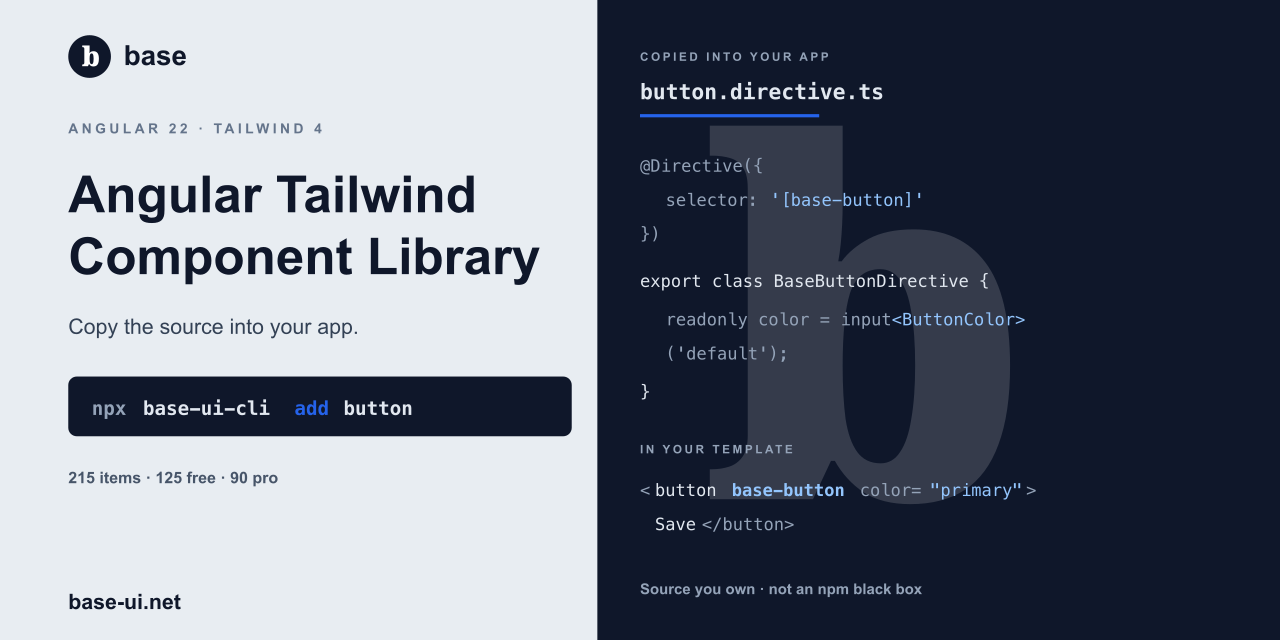
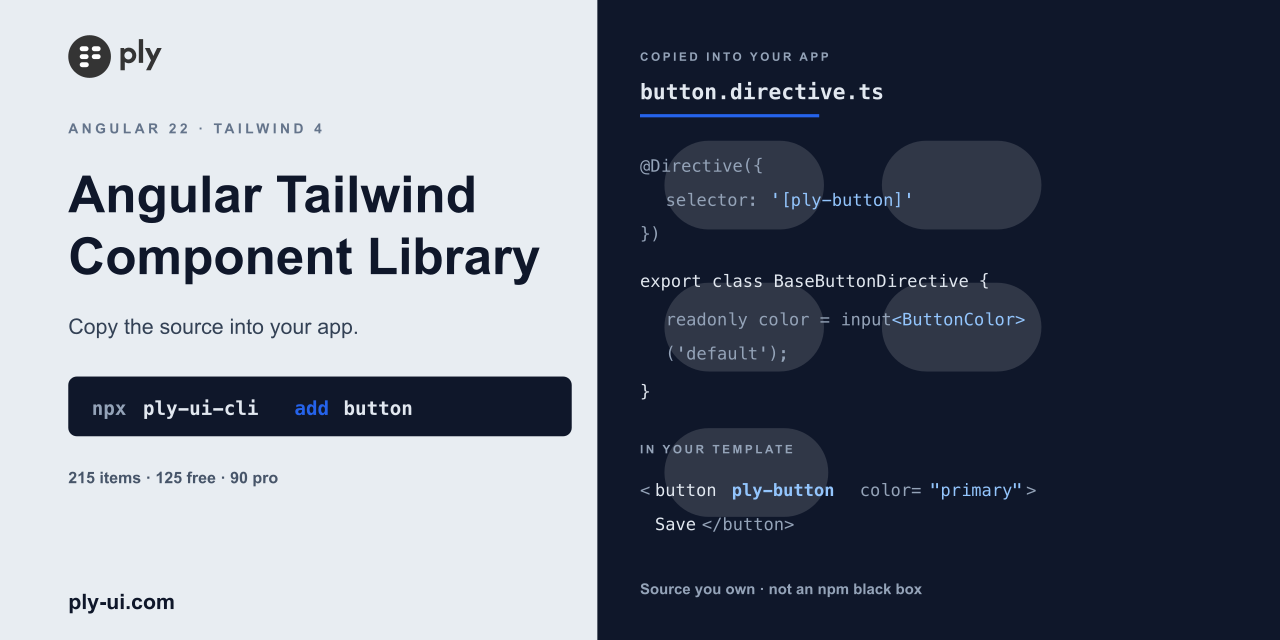
Sync public docs from ply-ui-ng/base-theme

diff --git a/README.md b/README.md
@@ -1,4 +1,4 @@
-> **Community hub.** Star this repository, open issues, and follow the changelog. Component source is **not** stored here — install with `npx ply-ui-cli add button` from [ply-ui.com](https://ply-ui.com).
+> **Community hub.** Star this repository, open issues, and follow the changelog. Component source is **not** stored here — install with `npx ply-ui-cli add button` from [base-ui.net](https://base-ui.net).
 
 # Ply — Angular + Tailwind Component Library
 
@@ -12,7 +12,7 @@
 📝 **Changelog**: [ply-ui.com/changelog](https://ply-ui.com/changelog) · [CHANGELOG.md](CHANGELOG.md) · [Issues](https://github.com/ply-ui-ng/ply/issues)  
 ♿ **Accessibility (ACR)**: [ply-ui.com/accessibility](https://ply-ui.com/accessibility) · `npm run test:a11y`  
 🖥 **SSR-safe**: the docs site prerenders every catalog route, enforced by a blocking CI job · [how we verify it](https://ply-ui.com/learn/angular-ssr-safe-component-library/)  
-🤖 **AI agents (MCP)**: [ply-ui.com/getting-started#ai-agents-mcp](https://ply-ui.com/getting-started#ai-agents-mcp) · `base-ui-mcp` · [why copy-in UI works better with LLMs](https://ply-ui.com/learn/why-llms-write-better-code-with-copy-in-ui/)  
+🤖 **AI agents (MCP)**: [ply-ui.com/getting-started#ai-agents-mcp](https://ply-ui.com/getting-started#ai-agents-mcp) · `ply-ui-mcp` · [why copy-in UI works better with LLMs](https://ply-ui.com/learn/why-llms-write-better-code-with-copy-in-ui/)  
 🎨 **Figma Design System**: [Figma Community File](https://www.figma.com/community/file/1662825988518656661)  
 ✨ **See what you can build for free**: [Live Admin Dashboard Demo](https://base-ui-free-dashboard-demo.pages.dev/app/dashboard) (Source code: [base-ui-free-dashboard](https://github.com/lussos/base-ui-free-dashboard))
 
@@ -73,11 +73,11 @@ All components are **standalone** — import them from your local components fol
 
 ```typescript
 // app.component.ts (standalone)
-import { CardComponent } from "./components/card/card.component";
-import { BaseButtonDirective } from "./components/button/button.directive";
+import { CardComponent } from './components/card/card.component';
+import { BaseButtonDirective } from './components/button/button.directive';
 
 @Component({
-  selector: "app-root",
+  selector: 'app-root',
   standalone: true,
   imports: [CardComponent, BaseButtonDirective],
   template: `...`,
@@ -108,21 +108,22 @@ Templates are complete, production-grade applications built on Pro — every rou
 
 - **[Motif](https://ply-ui.com/templates/motif)** — an Angular 22 + Tailwind commerce storefront: mega menu, category listing, product detail, cart, checkout, order tracking and an editorial journal. **$149** including Pro. [Live demo](https://commerce-template.ply-ui.com/)
 - **[Motif Admin](https://ply-ui.com/templates/motif-admin)** — the matching commerce operations dashboard: overview KPIs, orders, inventory, customers, analytics and settings. **$149** including Pro. [Live demo](https://dashboard-template.ply-ui.com/overview)
-- **Motif Suite** — both templates + one Pro license for **$199** (save $99 vs buying separately).
+- **[Relay](https://ply-ui.com/templates/relay)** — a Linear-style Angular 22 + Tailwind team workspace: projects, kanban, issues, inbox, calendar, files and docs. **$149** including Pro. [Live demo](https://relay-template.ply-ui.com/overview)
+- **Motif Suite** — Motif + Motif Admin + one Pro license for **$169** (save $129 vs buying separately).
 
 ---
 
 ## 📦 What's included
 
-| Category                        | Free                                                                                                    | Pro                                                                                                                                                           |
-| ------------------------------- | ------------------------------------------------------------------------------------------------------- | ------------------------------------------------------------------------------------------------------------------------------------------------------------- |
-| **UI primitives**               | 50+ (buttons, inputs, dialogs, hover cards, menubars, currency, kbd, tabs, calendar, stacked toasts, …) | data table, date pickers, command palette, mega menu, file upload, multi-select, rich text editor, crop image, product gallery, tree, mention input, splitter |
-| **Form blocks**                 | all 19 (login, signup, checkout, billing, wizard, …)                                                    | —                                                                                                                                                             |
-| **Blocks & widgets**            | —                                                                                                       | blog/article cards, ecommerce blocks, media + social widgets                                                                                                  |
-| **Page layouts**                | —                                                                                                       | 18 (dashboard, kanban, inbox, docs, admin table, …)                                                                                                           |
-| **Directives, services, utils** | all                                                                                                     | —                                                                                                                                                             |
-| **Icons**                       | 390 SVG sprite icons                                                                                    | —                                                                                                                                                             |
-| **Templates**                   | —                                                                                                       | [Motif](https://ply-ui.com/templates/motif) storefront + [Motif Admin](https://ply-ui.com/templates/motif-admin) dashboard ($149 each, or Motif Suite $199)   |
+| Category | Free | Pro |
+| --- | --- | --- |
+| **UI primitives** | 50+ (buttons, inputs, dialogs, hover cards, menubars, currency, kbd, tabs, calendar, stacked toasts, …) | data table, date pickers, command palette, mega menu, file upload, multi-select, rich text editor, crop image, product gallery, tree, mention input, splitter |
+| **Form blocks** | all 19 (login, signup, checkout, billing, wizard, …) | — |
+| **Blocks & widgets** | — | blog/article cards, ecommerce blocks, media + social widgets |
+| **Page layouts** | — | 18 (dashboard, kanban, inbox, docs, admin table, …) |
+| **Directives, services, utils** | all | — |
+| **Icons** | 390 SVG sprite icons | — |
+| **Templates** | — | [Motif](https://ply-ui.com/templates/motif) storefront, [Motif Admin](https://ply-ui.com/templates/motif-admin) dashboard, [Relay](https://ply-ui.com/templates/relay) workspace ($149 each, or Motif Suite $169) |
 
 ---
 
@@ -151,7 +152,7 @@ no-ops outside a server render.
 
 For AI agents and LLM-assisted development:
 
-- **MCP server** — [`base-ui-mcp`](https://www.npmjs.com/package/base-ui-mcp): tools `list_components`, `search_components`, `get_component`, `add_components` (free), plus `init_project`, `doctor`, `diff_components`, `update_components`. Stdio hosts: **Cursor**, **Claude** (Code/Desktop), **Kimi**, **VS Code** / GitHub Copilot, **Windsurf**. ChatGPT/Gemini chat need hosted HTTP (not shipped). Run `npx -y base-ui-mcp`. Setup: [Getting started — AI agents (MCP)](https://ply-ui.com/getting-started#ai-agents-mcp). The CLI remains the canonical installer; MCP wraps it.
+- **MCP server** — [`ply-ui-mcp`](packages/mcp): catalog tools `list_components`, `search_components`, `get_component`. Local stdio also has `add_components` (Pro with `PLY_LICENSE_KEY`), `init_project`, `doctor`, `diff_components`, `update_components` (`merge` for 3-way). Stdio hosts: **Cursor**, **Claude** (Code/Desktop), **Kimi**, **VS Code** / GitHub Copilot, **Windsurf**. ChatGPT/Gemini chat catalog: [mcp.ply-ui.com/mcp](https://mcp.ply-ui.com/mcp) (read-only; install with `npx ply-ui-cli add <name>`). Run `npx -y ply-ui-mcp` locally to install. Setup: [Getting started — AI agents (MCP)](https://ply-ui.com/getting-started#ai-agents-mcp). The CLI remains the canonical installer; MCP wraps it.
 - **Component catalog** — [`docs/ai/components.md`](docs/ai/components.md): selectors, inputs, outputs, and descriptions in one file. Published at [ply-ui.com/docs/ai/components.md](https://ply-ui.com/docs/ai/components.md) and inlined in [llms-full.txt](https://ply-ui.com/llms-full.txt).
 - **Cursor rules & snippets** — [`docs/ai/base-ui.mdc`](docs/ai/base-ui.mdc) and [`docs/ai/base-ui.code-snippets`](docs/ai/base-ui.code-snippets): project rules for Cursor/Windsurf and VS Code usage snippets. Copy from [Getting started — editor rules](https://ply-ui.com/getting-started/#editor-rules), or `npx ply-ui-cli init` writes them when missing.
 - **Cookbooks** — [ply-ui.com/cookbooks](https://ply-ui.com/cookbooks): assembled screens (settings form, dialog + CVA, invoice table, AI chat, signal forms, httpResource, @defer, view transitions).
@@ -159,8 +160,8 @@ For AI agents and LLM-assisted development:
 
 ## 🔐 Security & vendor risk
 
-- [SECURITY.md](SECURITY.md) — disclosure policy, every network request the CLI makes, and the supply-chain controls (tokenless releases, signed registry index, per-item digest verification, no install hooks) — including what is _not_ covered.
-- [Enterprise FAQ](docs/enterprise-faq.md) — what you actually depend on, offline/mirror options, continuity guarantees, and an honest account of what this project does _not_ offer.
+- [SECURITY.md](SECURITY.md) — disclosure policy, every network request the CLI makes, and the supply-chain controls (tokenless releases, signed registry index, per-item digest verification, no install hooks) — including what is *not* covered.
+- [Enterprise FAQ](docs/enterprise-faq.md) — what you actually depend on, offline/mirror options, continuity guarantees, and an honest account of what this project does *not* offer.
 
 Verify a release yourself:
 
@@ -168,6 +169,7 @@ Verify a release yourself:
 npm audit signatures                     # npm registry signature for ply-ui-cli
 PLY_REQUIRE_SIGNATURE=1 npx ply-ui-cli add button   # refuse unverified payloads
 ```
+
 
 <!-- answer-bank-faq:start -->
 ## FAQ
@@ -213,7 +215,7 @@ Two guarantees worth calling out, because they are the usual objections to a com
 - **Perpetual use** (§5) — every version delivered to you stays usable forever, with no registry, CLI, or vendor dependency at build or run time. Each release also attaches an offline Pro source archive.
 - **Termination does not reach shipped code** (§7) — a licensing dispute can stop future downloads, but never revokes your right to keep shipping products that already include the components.
 
-The CLI _tool itself_ ([`ply-ui-cli`](https://www.npmjs.com/package/ply-ui-cli)) is separately MIT-licensed — that covers only the tool's own code, not the components it fetches.
+The CLI *tool itself* ([`ply-ui-cli`](https://www.npmjs.com/package/ply-ui-cli)) is separately MIT-licensed — that covers only the tool's own code, not the components it fetches.
 
 ## 🆘 Support
 
